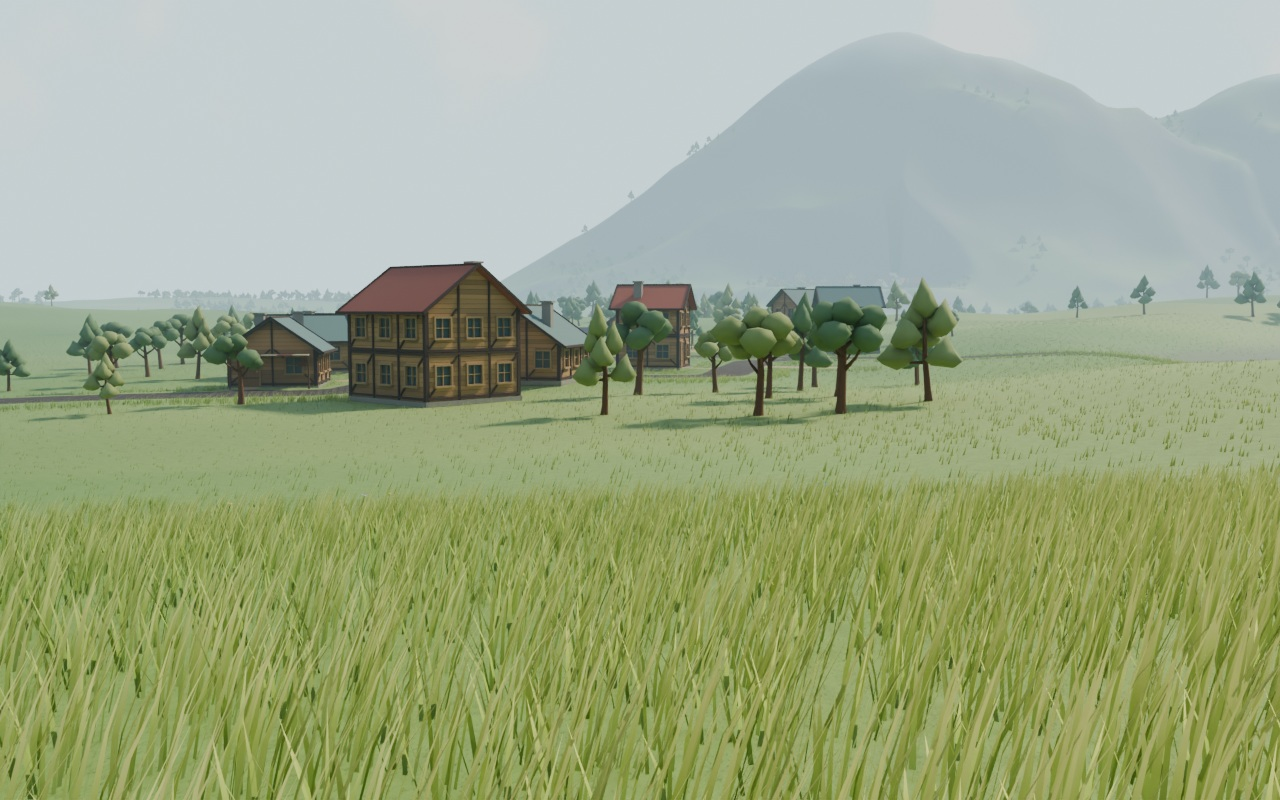
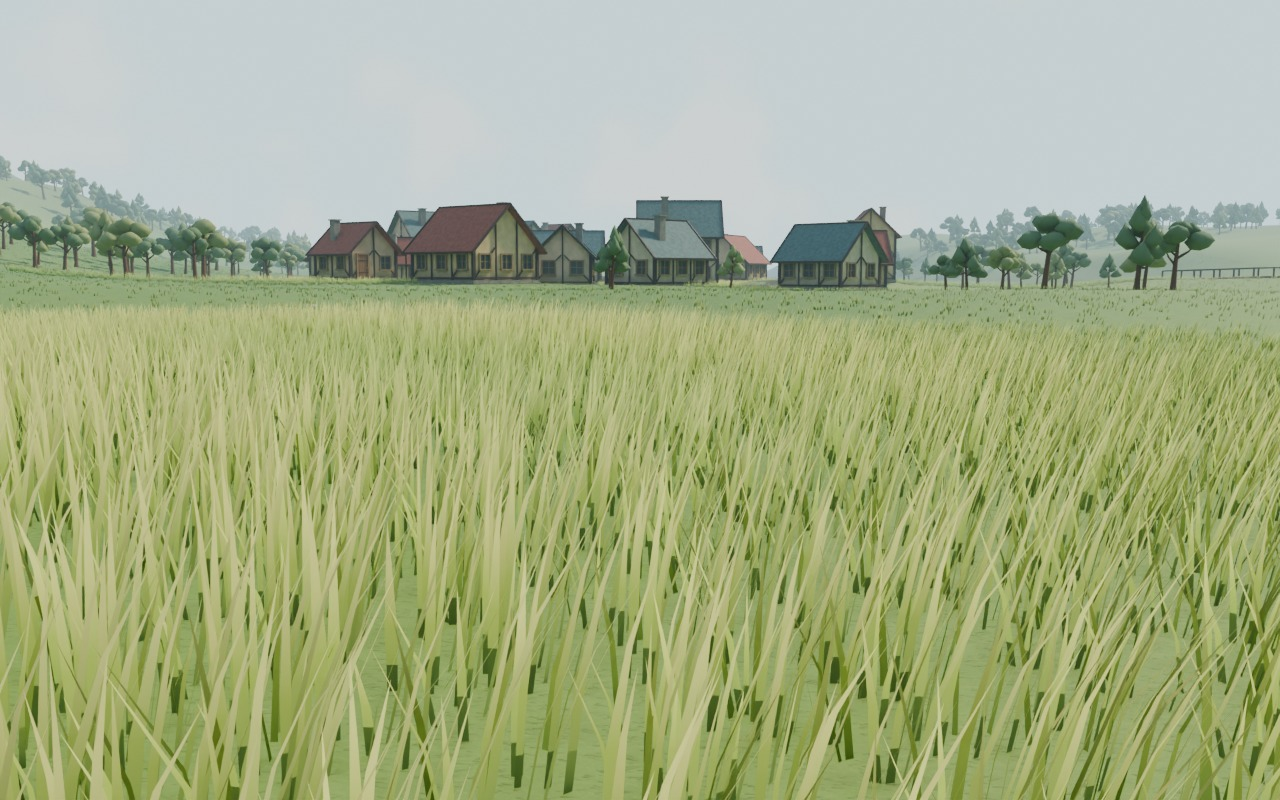
이미지 추가

diff --git a/assets/code/game_materials.py b/assets/code/game_materials.py
@@ -135,6 +135,119 @@ def paving_images(size=256):
     return tuple(images)
 
 
+def _architecture_surface(kind):
+    name = f"Asgen {kind.title()} Surface"
+    if group := bpy.data.node_groups.get(name):
+        return group
+    group = bpy.data.node_groups.new(name, "ShaderNodeTree")
+    for socket, direction, socket_type in (
+        ("Tint", "INPUT", "NodeSocketColor"),
+        ("Color", "OUTPUT", "NodeSocketColor"),
+        ("Normal", "OUTPUT", "NodeSocketVector"),
+    ):
+        group.interface.new_socket(
+            name=socket, in_out=direction, socket_type=socket_type
+        )
+
+    nodes, links = group.nodes, group.links
+    tint = nodes.new("NodeGroupInput")
+    tint.location = (20, 240)
+    output = nodes.new("NodeGroupOutput")
+    output.location = (620, 40)
+    coords = nodes.new("ShaderNodeTexCoord")
+    coords.location = (-850, 30)
+    vector = coords.outputs["Object"]
+    if kind == "timber":
+        grain = nodes.new("ShaderNodeVectorMath")
+        grain.operation = "MULTIPLY"
+        grain.inputs[1].default_value = (3.0, 42.0, 1.0)
+        grain.location = (-640, 40)
+        links.new(coords.outputs["UV"], grain.inputs[0])
+        vector = grain.outputs["Vector"]
+
+    scale, minimum, maximum, grain_scale, depth = {
+        "plaster": (1.8, 0.81, 1.08, 58.0, 0.003),
+        "timber": (1.0, 0.67, 1.16, 1.0, 0.004),
+        "clay": (3.5, 0.68, 1.14, 37.0, 0.004),
+        "stone": (2.2, 0.73, 1.12, 26.0, 0.006),
+    }[kind]
+    pattern = nodes.new("ShaderNodeTexNoise")
+    pattern.location = (-440, 40)
+    pattern.inputs["Scale"].default_value = scale
+    pattern.inputs["Detail"].default_value = 3.0
+    links.new(vector, pattern.inputs["Vector"])
+    variation = nodes.new("ShaderNodeMapRange")
+    variation.location = (-225, 40)
+    for socket, value in (
+        ("From Min", 0.25),
+        ("From Max", 0.75),
+        ("To Min", minimum),
+        ("To Max", maximum),
+    ):
+        variation.inputs[socket].default_value = value
+    links.new(pattern.outputs["Fac"], variation.inputs["Value"])
+    shade = variation.outputs["Result"]
+
+    if kind == "plaster":
+        height = nodes.new("ShaderNodeSeparateXYZ")
+        height.location = (-640, -330)
+        links.new(coords.outputs["Generated"], height.inputs["Vector"])
+        foot = nodes.new("ShaderNodeMapRange")
+        foot.location = (-440, -330)
+        foot.interpolation_type = "SMOOTHSTEP"
+        foot.inputs["From Max"].default_value = 0.23
+        foot.inputs["To Min"].default_value = 0.64
+        links.new(height.outputs["Z"], foot.inputs["Value"])
+        weathering = nodes.new("ShaderNodeMath")
+        weathering.operation = "MULTIPLY"
+        weathering.location = (20, 40)
+        links.new(shade, weathering.inputs[0])
+        links.new(foot.outputs["Result"], weathering.inputs[1])
+        shade = weathering.outputs[0]
+
+    color = nodes.new("ShaderNodeMixRGB")
+    color.blend_type = "MULTIPLY"
+    color.inputs[0].default_value = 1.0
+    color.location = (390, 180)
+    links.new(tint.outputs["Tint"], color.inputs[1])
+    links.new(shade, color.inputs[2])
+    links.new(color.outputs[0], output.inputs["Color"])
+
+    detail = pattern
+    if kind != "timber":
+        detail = nodes.new("ShaderNodeTexNoise")
+        detail.location = (-210, -295 if kind != "plaster" else -630)
+        detail.inputs["Scale"].default_value = grain_scale
+        detail.inputs["Detail"].default_value = 2.0
+        links.new(vector, detail.inputs["Vector"])
+    bump = nodes.new("ShaderNodeBump")
+    bump.location = (390, -80)
+    bump.inputs["Distance"].default_value = depth
+    links.new(detail.outputs["Fac"], bump.inputs["Height"])
+    links.new(bump.outputs["Normal"], output.inputs["Normal"])
+    return group
+
+
+def configure_architecture_surface(material, shader, kind):
+    tree = material.node_tree
+    surface = tree.nodes.new("ShaderNodeGroup")
+    surface.name = "Architecture Surface"
+    surface.label = f"{kind.title()} · Colour and Relief"
+    surface.location = (shader.location.x - 240, shader.location.y)
+    surface.node_tree = _architecture_surface(kind)
+    surface.inputs["Tint"].default_value = material.diffuse_color
+    if kind == "timber":
+        material["grain_aligned_uv"] = True
+    shader.inputs["Roughness"].default_value = {
+        "plaster": 0.89,
+        "timber": 0.68,
+        "clay": 0.81,
+        "stone": 0.86,
+    }[kind]
+    tree.links.new(surface.outputs["Color"], shader.inputs["Base Color"])
+    tree.links.new(surface.outputs["Normal"], shader.inputs["Normal"])
+
+
 def configure_surface_materials(materials, shader_for):
     meadow, bare = meadow_images()
     for key in ("terrain", "bare_terrain", "world_water"):

diff --git a/assets/code/house_generator.py b/assets/code/house_generator.py
@@ -22,6 +22,7 @@ if __name__ == "__main__":
         "house_rules",
         "interior_rules",
         "interior_blender",
+        "game_materials",
     ):
         if module_name in sys.modules:
             importlib.reload(sys.modules[module_name])
@@ -50,6 +51,7 @@ try:
     from mathutils import Vector
 
     import interior_blender
+    from game_materials import configure_architecture_surface
 except ModuleNotFoundError:
     bpy = None
     Vector = None
@@ -181,6 +183,18 @@ def _make_materials(config):
     for i in range(7):
         specifications[f"cladding_{i}"] = base
         specifications[f"roof_{i}"] = colors["roof"]
+    finishes = {
+        "plaster": "plaster",
+        "trim": "timber",
+        "frame": "timber",
+        "door": "timber",
+        "wood": "timber",
+        "roof": "clay",
+        "stone": "stone",
+        "foundation": "stone",
+        "brick": "clay",
+        "cladding": "clay" if config.wall_style == "BRICK" else "timber",
+    }
     materials = {}
     for key, color in specifications.items():
         brightness = 0.90 + 0.033 * int(key[-1]) if key[-1].isdigit() else 1.0
@@ -195,6 +209,10 @@ def _make_materials(config):
         if key == "metal":
             shader.inputs["Metallic"].default_value = 0.65
             shader.inputs["Roughness"].default_value = 0.35
+        if config.architecture == "MEDIEVAL":
+            finish = finishes.get(key.rstrip("0123456789").rstrip("_"))
+            if finish:
+                configure_architecture_surface(material, shader, finish)
         materials[key] = material
     return materials
 
@@ -330,9 +348,26 @@ class MeshBatch:
         # Face-local UVs use metres and overlap for tiling textures.
         # Lightmaps and unique painting atlases need separate packing.
         uv = mesh.uv_layers.new(name="UVMap")
+        grain_slots = {
+            index
+            for index, material in enumerate(mesh.materials)
+            if material is not None and material.get("grain_aligned_uv")
+        }
         for face in mesh.polygons:
-            origin = mesh.vertices[face.vertices[0]].co
-            u = (mesh.vertices[face.vertices[1]].co - origin).normalized()
+            a, b = face.vertices[:2]
+            if face.material_index in grain_slots:
+                outline = tuple(face.vertices)
+                a, b = max(
+                    zip(outline, outline[1:] + outline[:1], strict=True),
+                    key=lambda edge: (
+                        (
+                            mesh.vertices[edge[1]].co
+                            - mesh.vertices[edge[0]].co
+                        ).length_squared
+                    ),
+                )
+            origin = mesh.vertices[a].co
+            u = (mesh.vertices[b].co - origin).normalized()
             v = face.normal.cross(u).normalized()
             for loop_index in face.loop_indices:
                 co = (

diff --git a/assets/code/tests/blender_smoke.py b/assets/code/tests/blender_smoke.py
@@ -87,6 +87,41 @@ assert generator._principled_shader(material).type == "BSDF_PRINCIPLED"
 bpy.data.materials.remove(material)
 config = HouseConfig(width=4.5, depth=4.2, floors=1)
 collection, root, plan = generator.build_house(config)
+finishes = set()
+for material in {
+    material
+    for obj in collection.objects
+    if obj.type == "MESH"
+    for material in obj.data.materials
+}:
+    if surface := material.node_tree.nodes.get("Architecture Surface"):
+        shader = generator._principled_shader(material)
+        assert tuple(surface.inputs["Tint"].default_value) == tuple(
+            material.diffuse_color
+        )
+        assert shader.inputs["Base Color"].links[0].from_node == surface
+        assert shader.inputs["Normal"].links[0].from_node == surface
+        finishes.add(surface.node_tree.name)
+assert finishes == {
+    "Asgen Plaster Surface",
+    "Asgen Timber Surface",
+    "Asgen Clay Surface",
+    "Asgen Stone Surface",
+}
+timber = next(
+    obj
+    for obj in collection.objects
+    if obj.get("house_geometry_role") == "Timber"
+)
+grain_uv = timber.data.uv_layers.active.data
+for face in timber.data.polygons:
+    verts = [timber.data.vertices[index].co for index in face.vertices]
+    u = [grain_uv[index].uv.x for index in face.loop_indices]
+    longest = max(
+        (b - a).length
+        for a, b in zip(verts, verts[1:] + verts[:1], strict=True)
+    )
+    assert max(u) - min(u) >= longest - 1e-5
 first = mesh_signature(collection)
 collection, root, plan = generator.build_house(config, replace=collection)
 assert mesh_signature(collection) == first, "Same seed changed the mesh"

diff --git a/assets/code/settlement_blender.py b/assets/code/settlement_blender.py
@@ -21,7 +21,11 @@ from civic_blender import (
 )
 from civic_rules import civic_navigation
 from fortification_blender import build_walls
-from game_materials import configure_surface_materials, purge_unused_images
+from game_materials import (
+    configure_architecture_surface,
+    configure_surface_materials,
+    purge_unused_images,
+)
 from settlement_rules import (
     SettlementConfig,
     make_settlement,
@@ -119,6 +123,20 @@ def _materials(generation):
         "well_water": "34535a",
         "lantern_glow": "ffd291",
     }
+    finishes = {
+        "castle_plaster": "plaster",
+        "castle_stone": "stone",
+        "ashlar_light": "stone",
+        "ashlar_dark": "stone",
+        "castle_trim": "stone",
+        "stone": "stone",
+        "stone_light": "stone",
+        "timber": "timber",
+        "wood": "timber",
+        "castle_slate": "stone",
+        "castle_cone": "stone",
+        "castle_roof": "clay",
+    }
     result = {}
     for key, color in colors.items():
         material = bpy.data.materials.new("Settlement_" + key)
@@ -144,6 +162,9 @@ def _materials(generation):
         if key == "iron":
             shader.inputs["Metallic"].default_value = 0.65
             shader.inputs["Roughness"].default_value = 0.40
+        finish = finishes.get(key)
+        if finish:
+            configure_architecture_surface(material, shader, finish)
         result[key] = material
     configure_surface_materials(result, houses._principled_shader)
     return result

diff --git a/assets/code/atlas_structures.py b/assets/code/atlas_structures.py
@@ -109,9 +109,12 @@ def _tint_roof(collection, seed):
             for c in rgb
         )
         material.diffuse_color = (*linear, colour[3])
-        houses._principled_shader(material).inputs[
-            "Base Color"
-        ].default_value = material.diffuse_color
+        if surface := material.node_tree.nodes.get("Architecture Surface"):
+            surface.inputs["Tint"].default_value = material.diffuse_color
+        else:
+            houses._principled_shader(material).inputs[
+                "Base Color"
+            ].default_value = material.diffuse_color
 
 
 def _stairs(batch, start, end, width, material):

diff --git a/assets/code/world_generator.py b/assets/code/world_generator.py
@@ -297,7 +297,7 @@ def main(argv=None):
     model = bool(args.output or args.render or args.ogre_output)
     if model and bpy is None:
         parser.error("Blender is required for model, render and OGRE output")
-    config = _read_config(args.config)
+    config = WorldConfig.from_dict(blueprint)
     if args.seed is not None:
         config = replace(config, seed=args.seed)
     if args.focus and args.focus not in {s.id for s in config.settlements}:
